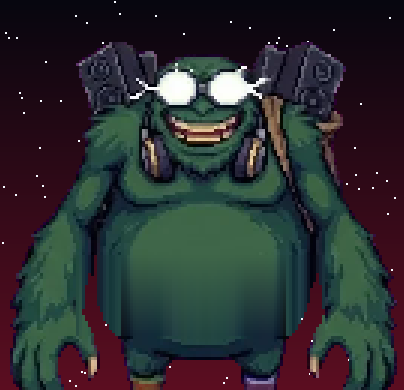
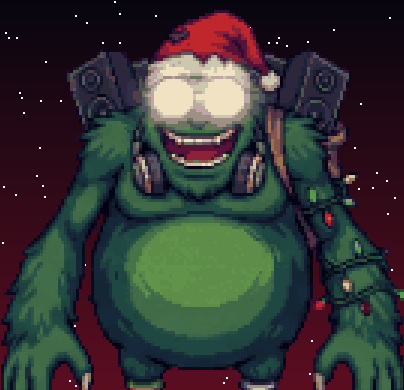
Don Gruñón con gorro navideño y sin cinturón, dibujado así desde Gemini
- La hoja de cuadros se volvió a generar en Gemini a partir del diseño:
  ahora tiene el gorro de Papá Noel en todas las poses (en la de vencido,
  tirado al lado) y la panza sin cinturón. Ya no hay ningún retoque por
  código sobre el dibujo (el relleno anterior dejaba la panza borrosa).
- tools/jefe.py, mucho más simple: saca el fondo magenta, separa los 7
  cuadros, espeja las 2 poses que miraban a la derecha y reduce con
  promedio + paleta fija sacada del original (pixel art nítido).
- Anteojos medidos a mano en cada pose (el gorro rojo y blanco confundía
  la detección automática): los láseres y el brillo salen de los ojos.
- Se sacan los arcos eléctricos sobre la cabeza (eran del jefe anterior).
- Originales en arte-fuente/jefe/ (diseño, referencia y hoja nueva).

diff --git a/salva-la-navidance/js/data/art-data.js b/salva-la-navidance/js/data/art-data.js
@@ -1,2 +1,2 @@
 // Metadatos del arte 8-bit (generado por tools/arte.py y tools/jefe.py)
-window.ART_DATA={"sprites": {"coin": {"w": 14, "h": 14, "n": 6}, "mega": {"w": 26, "h": 26, "n": 4}, "shield": {"w": 20, "h": 20, "n": 2}, "heart": {"w": 12, "h": 11, "n": 2}, "beacon": {"w": 18, "h": 38, "n": 2}, "shot": {"w": 14, "h": 8, "n": 2}, "elaser": {"w": 12, "h": 4, "n": 1}, "ornament": {"w": 10, "h": 11, "n": 4}, "wave": {"w": 20, "h": 16, "n": 2}, "boom": {"w": 34, "h": 34, "n": 6}, "movinghead": {"w": 20, "h": 20, "n": 1, "lens": [10, 15]}, "patovica": {"w": 30, "h": 34, "n": 2}, "regalo": {"w": 30, "h": 44, "n": 4}, "esfera": {"w": 30, "h": 28, "n": 3}, "duende": {"w": 24, "h": 30, "n": 3}, "grunon": {"w": 170, "h": 140, "n": 7, "lensL": [75, 32], "lensR": [91, 32], "lenses": [[75, 32, 91, 32], [75, 34, 91, 34], [48, 42, 58, 45], [75, 28, 94, 28], [44, 35, 59, 33], [75, 32, 91, 32], [89, 46, 104, 47]], "core": [83, 101]}}, "deco": {"console": [32, 32], "speaker": [32, 64], "tree": [30, 46], "tree_bulbs": [[10, 14], [19, 18], [8, 24], [22, 26], [13, 30], [5, 35], [25, 36], [16, 37]], "snow": [32, 10], "truss": [32, 12], "lamp": [12, 52], "door": [40, 96]}, "lights": {"far_blink": [[161, 86], [270, 131], [379, 102], [597, 104], [710, 139], [985, 86], [1059, 128], [1180, 125]], "mid_bulbs": [[174, 191], [171, 197], [165, 200], [159, 197], [156, 191], [159, 185], [165, 182], [171, 185], [460, 105], [468, 105], [476, 105], [484, 105], [492, 105], [500, 105], [508, 105], [516, 105], [524, 105], [532, 105], [540, 105], [548, 105], [556, 105], [564, 105], [1208, 95], [1216, 95], [1224, 95], [1232, 95], [1240, 95], [1248, 95], [1256, 95], [1264, 95], [1272, 95], [1280, 95], [1288, 95], [1296, 95], [1304, 95], [1312, 95], [1474, 191], [1471, 197], [1465, 200], [1459, 197], [1456, 191], [1459, 185], [1465, 182], [1471, 185], [1240, 120], [1250, 121], [1260, 123], [1270, 124], [1280, 126], [1290, 128], [1300, 129], [1310, 130], [1320, 132], [1330, 133], [1340, 134], [1350, 136], [1360, 137], [1370, 138], [1380, 139], [1390, 139], [1400, 140], [1410, 141], [1420, 141], [1430, 141], [1440, 141], [1450, 142], [1460, 141], [1470, 141], [1480, 141], [1490, 141], [1500, 140], [1510, 139], [1520, 139], [1530, 138], [1540, 137], [1550, 136], [1560, 134], [1570, 133], [1580, 132], [1590, 130], [1600, 129], [1610, 128], [1620, 126], [1630, 124], [1640, 123], [1650, 121], [390, 226], [405, 287], [396, 283], [436, 302], [428, 255], [389, 224], [444, 298], [419, 284], [396, 195], [357, 282], [389, 226], [371, 302], [396, 201], [409, 300], [426, 294], [447, 293], [368, 266], [407, 201], [431, 255], [435, 264], [419, 238], [438, 293], [388, 240], [413, 273], [408, 223], [432, 295], [400, 210], [408, 274], [388, 218], [429, 263], [404, 199], [396, 223], [425, 303], [397, 204], [408, 242], [424, 277], [407, 228], [391, 255], [401, 245], [434, 292], [1605, 269], [1583, 303], [1595, 236], [1587, 309], [1581, 237], [1598, 278], [1606, 260], [1578, 282], [1551, 279], [1572, 276], [1585, 291], [1585, 212], [1584, 248], [1563, 269], [1560, 297], [1596, 229], [1600, 278], [1572, 246], [1596, 232], [1581, 215], [1569, 250], [1581, 210], [1595, 228], [1619, 299], [1590, 244], [1562, 291], [1578, 241], [1577, 226], [1593, 238], [1580, 211], [1595, 275], [1617, 285], [1584, 235], [1573, 279], [1597, 235], [1591, 228], [1581, 212], [1572, 268], [1552, 285], [1590, 213], [23, 179], [30, 179], [37, 179], [44, 172], [51, 179], [58, 179], [65, 179], [72, 287], [79, 288], [86, 288], [93, 288], [100, 288], [107, 287], [121, 261], [128, 257], [135, 253], [142, 249], [149, 245], [156, 144], [163, 113], [170, 126], [177, 242], [184, 247], [191, 251], [198, 254], [205, 258], [219, 298], [226, 294], [233, 294], [240, 298], [254, 208], [261, 209], [268, 209], [275, 201], [282, 209], [289, 208], [296, 209], [317, 314], [324, 286], [331, 286], [338, 314], [345, 314], [352, 286], [359, 286], [366, 283], [373, 260], [380, 236], [387, 210], [394, 178], [401, 174], [408, 179], [415, 215], [422, 239], [429, 262], [436, 284], [443, 307], [450, 306], [457, 306], [464, 110], [471, 109], [478, 110], [485, 110], [492, 110], [499, 110], [506, 109], [513, 110], [520, 110], [527, 110], [534, 110], [541, 109], [548, 110], [555, 110], [562, 110], [569, 110], [576, 292], [611, 268], [618, 268], [625, 268], [632, 267], [639, 268], [646, 268], [653, 268], [660, 220], [667, 205], [674, 196], [681, 196], [688, 213], [695, 268], [702, 267], [709, 268], [716, 268], [723, 268], [730, 268], [737, 267], [744, 303], [751, 293], [758, 290], [765, 291], [772, 295], [793, 189], [800, 189], [807, 189], [814, 188], [821, 182], [828, 189], [835, 189], [842, 189], [849, 188], [863, 284], [870, 284], [877, 284], [884, 283], [891, 284], [898, 284], [905, 284], [912, 229], [919, 228], [926, 222], [933, 222], [940, 229], [947, 229], [954, 305], [961, 299], [968, 298], [975, 303], [989, 168], [996, 169], [1003, 169], [1010, 169], [1017, 162], [1024, 168], [1031, 169], [1038, 169], [1052, 287], [1059, 288], [1066, 288], [1073, 288], [1080, 288], [1087, 287], [1094, 288], [1101, 288], [1108, 288], [1115, 288], [1122, 279], [1129, 271], [1150, 201], [1157, 201], [1164, 201], [1171, 194], [1178, 200], [1185, 201], [1192, 201], [1206, 99], [1213, 100], [1220, 100], [1227, 100], [1234, 100], [1241, 99], [1248, 100], [1255, 100], [1262, 100], [1269, 100], [1276, 99], [1283, 100], [1290, 100], [1297, 100], [1304, 100], [1311, 99], [1318, 294], [1325, 294], [1332, 299], [1339, 293], [1346, 292], [1353, 294], [1360, 304], [1374, 217], [1381, 217], [1388, 210], [1395, 210], [1402, 217], [1409, 217], [1423, 259], [1430, 256], [1437, 252], [1444, 248], [1451, 244], [1458, 135], [1472, 136], [1479, 243], [1486, 248], [1493, 252], [1500, 256], [1507, 259], [1521, 289], [1528, 290], [1535, 290], [1542, 290], [1549, 290], [1556, 282], [1563, 259], [1570, 179], [1577, 179], [1584, 178], [1591, 172], [1598, 179], [1605, 179], [1612, 179], [1619, 178], [1626, 326], [1633, 272], [1654, 233], [1661, 233], [1668, 225], [1675, 233], [1682, 232], [1689, 233], [1696, 299], [1703, 295], [1710, 296], [1717, 302], [1724, 157], [1731, 157], [1738, 157], [1745, 156], [1752, 150], [1759, 150], [1766, 157], [1773, 157], [1780, 156], [1794, 286], [1801, 286], [1808, 285], [1815, 286], [1822, 286], [1829, 286], [1836, 286], [1843, 285], [1850, 286], [1857, 286], [1864, 197], [1871, 197], [1878, 190], [1885, 190], [1892, 197], [1899, 197], [1906, 293], [1913, 290], [1920, 291], [1927, 295], [1941, 211], [1948, 210], [1955, 211], [1962, 211], [1969, 211], [1976, 204], [1983, 210], [1990, 211], [1997, 211], [2004, 211]], "mid_neon": [{"x": 316, "y": 280, "w": 188, "h": 32, "c": "W"}, {"x": 458, "y": 108, "w": 112, "h": 36, "c": "R"}, {"x": 1206, "y": 98, "w": 112, "h": 36, "c": "R"}], "near_consoles": [[258, 254, 40, 3], [638, 254, 40, 3]]}};
+window.ART_DATA={"sprites": {"coin": {"w": 14, "h": 14, "n": 6}, "mega": {"w": 26, "h": 26, "n": 4}, "shield": {"w": 20, "h": 20, "n": 2}, "heart": {"w": 12, "h": 11, "n": 2}, "beacon": {"w": 18, "h": 38, "n": 2}, "shot": {"w": 14, "h": 8, "n": 2}, "elaser": {"w": 12, "h": 4, "n": 1}, "ornament": {"w": 10, "h": 11, "n": 4}, "wave": {"w": 20, "h": 16, "n": 2}, "boom": {"w": 34, "h": 34, "n": 6}, "movinghead": {"w": 20, "h": 20, "n": 1, "lens": [10, 15]}, "patovica": {"w": 30, "h": 34, "n": 2}, "regalo": {"w": 30, "h": 44, "n": 4}, "esfera": {"w": 30, "h": 28, "n": 3}, "duende": {"w": 24, "h": 30, "n": 3}, "grunon": {"w": 176, "h": 150, "n": 7, "lensL": [79, 42], "lensR": [96, 42], "lenses": [[79, 42, 96, 42], [79, 42, 96, 42], [46, 48, 57, 48], [80, 42, 96, 42], [54, 53, 66, 53], [79, 42, 96, 42], [79, 57, 95, 57]], "core": [88, 94]}}, "deco": {"console": [32, 32], "speaker": [32, 64], "tree": [30, 46], "tree_bulbs": [[10, 14], [19, 18], [8, 24], [22, 26], [13, 30], [5, 35], [25, 36], [16, 37]], "snow": [32, 10], "truss": [32, 12], "lamp": [12, 52], "door": [40, 96]}, "lights": {"far_blink": [[161, 86], [270, 131], [379, 102], [597, 104], [710, 139], [985, 86], [1059, 128], [1180, 125]], "mid_bulbs": [[174, 191], [171, 197], [165, 200], [159, 197], [156, 191], [159, 185], [165, 182], [171, 185], [460, 105], [468, 105], [476, 105], [484, 105], [492, 105], [500, 105], [508, 105], [516, 105], [524, 105], [532, 105], [540, 105], [548, 105], [556, 105], [564, 105], [1208, 95], [1216, 95], [1224, 95], [1232, 95], [1240, 95], [1248, 95], [1256, 95], [1264, 95], [1272, 95], [1280, 95], [1288, 95], [1296, 95], [1304, 95], [1312, 95], [1474, 191], [1471, 197], [1465, 200], [1459, 197], [1456, 191], [1459, 185], [1465, 182], [1471, 185], [1240, 120], [1250, 121], [1260, 123], [1270, 124], [1280, 126], [1290, 128], [1300, 129], [1310, 130], [1320, 132], [1330, 133], [1340, 134], [1350, 136], [1360, 137], [1370, 138], [1380, 139], [1390, 139], [1400, 140], [1410, 141], [1420, 141], [1430, 141], [1440, 141], [1450, 142], [1460, 141], [1470, 141], [1480, 141], [1490, 141], [1500, 140], [1510, 139], [1520, 139], [1530, 138], [1540, 137], [1550, 136], [1560, 134], [1570, 133], [1580, 132], [1590, 130], [1600, 129], [1610, 128], [1620, 126], [1630, 124], [1640, 123], [1650, 121], [390, 226], [405, 287], [396, 283], [436, 302], [428, 255], [389, 224], [444, 298], [419, 284], [396, 195], [357, 282], [389, 226], [371, 302], [396, 201], [409, 300], [426, 294], [447, 293], [368, 266], [407, 201], [431, 255], [435, 264], [419, 238], [438, 293], [388, 240], [413, 273], [408, 223], [432, 295], [400, 210], [408, 274], [388, 218], [429, 263], [404, 199], [396, 223], [425, 303], [397, 204], [408, 242], [424, 277], [407, 228], [391, 255], [401, 245], [434, 292], [1605, 269], [1583, 303], [1595, 236], [1587, 309], [1581, 237], [1598, 278], [1606, 260], [1578, 282], [1551, 279], [1572, 276], [1585, 291], [1585, 212], [1584, 248], [1563, 269], [1560, 297], [1596, 229], [1600, 278], [1572, 246], [1596, 232], [1581, 215], [1569, 250], [1581, 210], [1595, 228], [1619, 299], [1590, 244], [1562, 291], [1578, 241], [1577, 226], [1593, 238], [1580, 211], [1595, 275], [1617, 285], [1584, 235], [1573, 279], [1597, 235], [1591, 228], [1581, 212], [1572, 268], [1552, 285], [1590, 213], [23, 179], [30, 179], [37, 179], [44, 172], [51, 179], [58, 179], [65, 179], [72, 287], [79, 288], [86, 288], [93, 288], [100, 288], [107, 287], [121, 261], [128, 257], [135, 253], [142, 249], [149, 245], [156, 144], [163, 113], [170, 126], [177, 242], [184, 247], [191, 251], [198, 254], [205, 258], [219, 298], [226, 294], [233, 294], [240, 298], [254, 208], [261, 209], [268, 209], [275, 201], [282, 209], [289, 208], [296, 209], [317, 314], [324, 286], [331, 286], [338, 314], [345, 314], [352, 286], [359, 286], [366, 283], [373, 260], [380, 236], [387, 210], [394, 178], [401, 174], [408, 179], [415, 215], [422, 239], [429, 262], [436, 284], [443, 307], [450, 306], [457, 306], [464, 110], [471, 109], [478, 110], [485, 110], [492, 110], [499, 110], [506, 109], [513, 110], [520, 110], [527, 110], [534, 110], [541, 109], [548, 110], [555, 110], [562, 110], [569, 110], [576, 292], [611, 268], [618, 268], [625, 268], [632, 267], [639, 268], [646, 268], [653, 268], [660, 220], [667, 205], [674, 196], [681, 196], [688, 213], [695, 268], [702, 267], [709, 268], [716, 268], [723, 268], [730, 268], [737, 267], [744, 303], [751, 293], [758, 290], [765, 291], [772, 295], [793, 189], [800, 189], [807, 189], [814, 188], [821, 182], [828, 189], [835, 189], [842, 189], [849, 188], [863, 284], [870, 284], [877, 284], [884, 283], [891, 284], [898, 284], [905, 284], [912, 229], [919, 228], [926, 222], [933, 222], [940, 229], [947, 229], [954, 305], [961, 299], [968, 298], [975, 303], [989, 168], [996, 169], [1003, 169], [1010, 169], [1017, 162], [1024, 168], [1031, 169], [1038, 169], [1052, 287], [1059, 288], [1066, 288], [1073, 288], [1080, 288], [1087, 287], [1094, 288], [1101, 288], [1108, 288], [1115, 288], [1122, 279], [1129, 271], [1150, 201], [1157, 201], [1164, 201], [1171, 194], [1178, 200], [1185, 201], [1192, 201], [1206, 99], [1213, 100], [1220, 100], [1227, 100], [1234, 100], [1241, 99], [1248, 100], [1255, 100], [1262, 100], [1269, 100], [1276, 99], [1283, 100], [1290, 100], [1297, 100], [1304, 100], [1311, 99], [1318, 294], [1325, 294], [1332, 299], [1339, 293], [1346, 292], [1353, 294], [1360, 304], [1374, 217], [1381, 217], [1388, 210], [1395, 210], [1402, 217], [1409, 217], [1423, 259], [1430, 256], [1437, 252], [1444, 248], [1451, 244], [1458, 135], [1472, 136], [1479, 243], [1486, 248], [1493, 252], [1500, 256], [1507, 259], [1521, 289], [1528, 290], [1535, 290], [1542, 290], [1549, 290], [1556, 282], [1563, 259], [1570, 179], [1577, 179], [1584, 178], [1591, 172], [1598, 179], [1605, 179], [1612, 179], [1619, 178], [1626, 326], [1633, 272], [1654, 233], [1661, 233], [1668, 225], [1675, 233], [1682, 232], [1689, 233], [1696, 299], [1703, 295], [1710, 296], [1717, 302], [1724, 157], [1731, 157], [1738, 157], [1745, 156], [1752, 150], [1759, 150], [1766, 157], [1773, 157], [1780, 156], [1794, 286], [1801, 286], [1808, 285], [1815, 286], [1822, 286], [1829, 286], [1836, 286], [1843, 285], [1850, 286], [1857, 286], [1864, 197], [1871, 197], [1878, 190], [1885, 190], [1892, 197], [1899, 197], [1906, 293], [1913, 290], [1920, 291], [1927, 295], [1941, 211], [1948, 210], [1955, 211], [1962, 211], [1969, 211], [1976, 204], [1983, 210], [1990, 211], [1997, 211], [2004, 211]], "mid_neon": [{"x": 316, "y": 280, "w": 188, "h": 32, "c": "W"}, {"x": 458, "y": 108, "w": 112, "h": 36, "c": "R"}, {"x": 1206, "y": 98, "w": 112, "h": 36, "c": "R"}], "near_consoles": [[258, 254, 40, 3], [638, 254, 40, 3]]}};

diff --git a/salva-la-navidance/js/enemies.js b/salva-la-navidance/js/enemies.js
@@ -280,7 +280,7 @@
     X.spr('grunon', b.frame, b.cx - cx, b.by - cy, { flash: b.flash > 0 || (b.dead && (G.frame >> 1) % 2 && b.deathT < 110) });
     if (glow) { const m = GM(); ctx.save(); ctx.fillStyle = '#9dffbf'; ctx.globalAlpha = 0.5 + 0.5 * Math.sin(G.frame * 0.4); NV.Input.circ(ctx, b.cx - m.w / 2 + m.core[0] - cx, b.by - m.h + m.core[1] - cy, 7); ctx.restore(); }
     if (b.dead) return;
-    // brillo de los ojos y arcos eléctricos entre los aisladores (más intensos en el apagón total)
+    // brillo de los anteojos (más intenso al apuntar y en la segunda fase)
     const m = GM(), ox = b.cx - m.w / 2 - cx, oy = b.by - m.h - cy;
     ctx.save(); ctx.globalCompositeOperation = 'lighter';
     eyes(m, b.frame).forEach((l, i) => {
@@ -289,12 +289,6 @@
       g.addColorStop(0, i ? 'rgba(51,224,122,.55)' : 'rgba(255,46,74,.55)'); g.addColorStop(1, 'rgba(0,0,0,0)');
       ctx.fillStyle = g; ctx.fillRect(ox + l[0] - r, oy + l[1] - r, r * 2, r * 2);
     });
-    if (G.frame % (b.phase === 2 ? 3 : 7) < 2) {
-      ctx.strokeStyle = '#bff6ff'; ctx.lineWidth = 1; ctx.beginPath();
-      let x = ox + 48, y = oy + 2; ctx.moveTo(x, y);
-      for (let k = 0; k < 6; k++) { x += 8; y = oy + 2 + U.rand(-6, 4); ctx.lineTo(Math.round(x), Math.round(y)); }
-      ctx.stroke();
-    }
     ctx.restore();
   };
   // SE CORTÓ LA NAVIDAD (fase 2): se apagan las luces; queda un círculo de luz alrededor del DJ

diff --git a/salva-la-navidance/js/core.js b/salva-la-navidance/js/core.js
@@ -3,7 +3,7 @@
 //  Todos los números del juego están acá para ajustarlos sin tocar la lógica.
 // =====================================================================
 window.NV = window.NV || {};
-NV.VERSION = 'grunon-2'; // cambiarlo en cada actualización del arte o la música (rompe la caché del navegador)
+NV.VERSION = 'grunon-gorro-1'; // cambiarlo en cada actualización del arte o la música (rompe la caché del navegador)
 
 NV.CFG = {
   // ---------- Pantalla ----------

diff --git a/salva-la-navidance/tools/jefe.py b/salva-la-navidance/tools/jefe.py
@@ -1,17 +1,18 @@
 # =====================================================================
 #  JEFE FINAL: DON GRUÑÓN
-#  Convierte la hoja de cuadros (arte-fuente/jefe/don_grunon_cuadros.webp,
-#  fondo magenta) al sprite del juego:
-#   - saca el fondo, separa los cuadros y BORRA EL CINTURÓN (inpainting)
-#   - escala todo igual, alinea los pies y arma la hoja assets/sprites/grunon.png
-#   - ubica los anteojos (de donde salen los láseres) y la panza (punto débil)
-#   - arma la carta de la presentación VS (assets/img/grunon_card.png)
-#   - escribe los metadatos en js/data/art-data.js
+#  Convierte la hoja de cuadros hecha con Gemini (arte-fuente/jefe/
+#  don_grunon_cuadros_gorro.jpg: 7 poses sobre fondo magenta, con gorro
+#  navideño y sin cinturón) al sprite del juego:
+#   - saca el fondo magenta y separa los cuadros
+#   - espeja las poses que miran a la derecha (el jefe mira a la izquierda)
+#   - reduce con promedio + paleta fija sacada del original (pixel art nítido)
+#   - alinea los pies y ubica los anteojos de cada pose y la panza
+#   - arma la carta de la presentación VS y escribe los metadatos
 #
-#     python tools/jefe.py      (necesita numpy, scipy, opencv-python, pillow)
+#     python tools/jefe.py      (necesita numpy, scipy y pillow)
 #
-#  Orden de cuadros en el juego:
-#   0 quieto · 1 quieto (rebote) · 2 apunta · 3 dispara · 4 golpe/bolsa · 5 vencido · 6 enojado (2ª fase)
+#  Cuadros en el juego:
+#   0 quieto · 1 quieto (rebote) · 2 apunta · 3 dispara · 4 golpe con la bolsa · 5 vencido · 6 enojado
 # =====================================================================
 import json, os, re
 import numpy as np
@@ -19,27 +20,28 @@ from PIL import Image
 from scipy import ndimage
 
 ROOT = os.path.dirname(os.path.dirname(os.path.abspath(__file__)))
-SRC = os.path.join(os.path.dirname(ROOT), 'arte-fuente', 'jefe', 'don_grunon_cuadros.webp')
-CW, CH = 170, 140        # tamaño de cada cuadro en el juego
-TARGET_H = 126           # alto del personaje parado
+SRC = os.path.join(os.path.dirname(ROOT), 'arte-fuente', 'jefe', 'don_grunon_cuadros_gorro.jpg')
+CW, CH = 176, 150        # tamaño de cada cuadro en el juego
+TARGET_H = 138           # alto del cuadro quieto (con gorro)
+# orden de la hoja: arriba quieto, rebote, apunta, dispara · abajo golpe, enojado, vencido
+SHEET_TO_GAME = [0, 1, 2, 3, 4, 6, 5]
+FLIP = {2, 4}            # en la hoja miran a la derecha
 
 def load():
     rgb = np.array(Image.open(SRC).convert('RGB')).astype(np.int32)
     r, g, b = rgb[..., 0], rgb[..., 1], rgb[..., 2]
-    # fondo magenta (con tolerancia por la compresión)
-    bg = ((r - 255) ** 2 + g ** 2 + (b - 255) ** 2) < 130 ** 2
-    bg |= (r > 140) & (b > 140) & (g < 0.45 * np.minimum(r, b))  # borde rosado mezclado
-    bg |= (r - g > 45) & (b - g > 45)                             # magenta oscuro mezclado con el contorno
-    return rgb.astype(np.uint8), ~bg
+    bg = ((r - 255) ** 2 + g ** 2 + (b - 255) ** 2) < 140 ** 2        # magenta (con margen por el JPG)
+    bg |= (r - g > 70) & (b - g > 70)                                 # halo rosado/violeta del borde
+    fg = ndimage.binary_opening(~bg, iterations=2)
+    return rgb.astype(np.uint8), fg
 
 def frames(rgb, fg):
-    fg = ndimage.binary_opening(fg, iterations=1)
-    lab, n = ndimage.label(ndimage.binary_dilation(fg, iterations=4))
+    H = fg.shape[0]
+    lab, n = ndimage.label(ndimage.binary_dilation(fg, iterations=6))
     sizes = ndimage.sum(fg, lab, range(1, n + 1))
-    big = [i + 1 for i, s in enumerate(sizes) if s > 8000]
-    # piezas sueltas (humo, garras) se suman al cuadro más cercano
+    big = [i + 1 for i, s in enumerate(sizes) if s > 30000]
     cen = {i: ndimage.center_of_mass(lab == i) for i in range(1, n + 1)}
-    for i in range(1, n + 1):
+    for i in range(1, n + 1):  # humo, vapor, garras sueltas: al cuadro más cercano
         if i in big: continue
         j = min(big, key=lambda k: (cen[k][0] - cen[i][0]) ** 2 + (cen[k][1] - cen[i][1]) ** 2)
         lab[lab == i] = j
@@ -47,181 +49,83 @@ def frames(rgb, fg):
     for i in big:
         ys, xs = np.where((lab == i) & fg)
         boxes.append((ys.min(), ys.max(), xs.min(), xs.max(), i))
-    # filas (arriba / abajo) y de izquierda a derecha
-    boxes.sort(key=lambda t: (0 if (t[0] + t[1]) / 2 < 512 else 1, t[2]))
+    boxes.sort(key=lambda t: (0 if (t[0] + t[1]) / 2 < H / 2 else 1, t[2]))
     out = []
     for y0, y1, x0, x1, i in boxes:
         m = (lab[y0:y1 + 1, x0:x1 + 1] == i) & fg[y0:y1 + 1, x0:x1 + 1]
-        out.append((rgb[y0:y1 + 1, x0:x1 + 1].copy(), m, (y0, x0)))
+        a = (m * 255).astype(np.uint8)
+        out.append(Image.fromarray(np.dstack([rgb[y0:y1 + 1, x0:x1 + 1], a]), 'RGBA'))
     return out
-
-# Zona del cinturón y de la hebilla en cada cuadro de la hoja (coordenadas de la imagen original 1024x1024).
-# Si se regenera la hoja con Gemini, revisar estas zonas.
-BELTS = [
-    {'band': [(105, 376), (355, 376), (355, 430), (105, 430)], 'coin': (198, 384, 265, 455)},   # quieto
-    {'band': [(455, 403), (700, 403), (700, 450), (455, 450)], 'coin': (575, 400, 640, 463)},   # enojado
-    {'band': [(780, 400), (945, 405), (945, 455), (780, 450)], 'coin': (785, 400, 840, 460), 'perfil': True},   # apunta
-    {'band': [(110, 790), (360, 790), (360, 845), (110, 845)], 'coin': (205, 797, 275, 870)},   # dispara
-    {'band': [(475, 825), (715, 785), (715, 825), (475, 872)], 'coin': (478, 812, 525, 882), 'perfil': True},   # bolsa arriba
-    None,                                                                                          # vencido
-]
-BELLY = (231, 420)  # centro de la panza en el cuadro quieto (punto débil)
-
-def sin_cinturon(img, m, org, spec):
-    """borra el cinturón y la hebilla: cada columna se rellena con un degradé entre la panza de arriba y la de abajo"""
-    if not spec: return img, m
-    from PIL import ImageDraw
-    h, w = m.shape; oy, ox = org
-    def poly_mask(draw_fn):
-        z = Image.new('L', (w, h), 0); draw_fn(ImageDraw.Draw(z)); return (np.array(z) > 0) & m
-    x0, y0, x1, y1 = [v - o for v, o in zip(spec['coin'], (ox, oy, ox, oy))]
-    coin = poly_mask(lambda d: d.rectangle([x0, y0, x1, y1], fill=255))
-    band = poly_mask(lambda d: d.polygon([(x - ox, y - oy) for x, y in spec['band']], fill=255)) & ~coin
-    img = img.copy(); m2 = m.copy()
-    # referencia válida: cuerpo verdoso (incluye la sombra oscura de abajo de la panza; no el marrón del cinturón)
-    ok = lambda yy, xx, src: 0 <= yy < h and 0 <= xx < w and m2[yy, xx] and not src[yy, xx] and int(img[yy, xx, 1]) >= int(img[yy, xx, 0]) - 2
-    def fill(mask, vertical):
-        idx = range(w) if vertical else range(h)
-        for i in idx:
-            line = np.where(mask[:, i] if vertical else mask[i, :])[0]
-            if not len(line): continue
-            for run in np.split(line, np.where(np.diff(line) > 1)[0] + 1):
-                a, b = run[0], run[-1]
-                pa = (a - 3, i) if vertical else (i, a - 3); pb = (b + 3, i) if vertical else (i, b + 3)
-                va, vb = ok(*pa, mask), ok(*pb, mask)
-                if not va and not vb: (m2.__setitem__((run, i) if vertical else (i, run), False)); continue
-                def avg(pt, sgn):
-                    # promedio de una zona chica (5x5) del lado de afuera: evita rayas por la textura del pelo
-                    yy0, xx0 = pt; acc = []
-                    for dd in range(0, 5):
-                        for ee in range(-2, 3):
-                            yy, xx = (yy0 + sgn * dd, xx0 + ee) if vertical else (yy0 + ee, xx0 + sgn * dd)
-                            if ok(yy, xx, mask): acc.append(img[yy, xx].astype(float))
-                    return np.mean(acc, 0) if acc else img[pt].astype(float)
-                ca = avg(pa, -1) if va else avg(pb, 1)
-                cb = avg(pb, 1) if vb else ca
-                if not vertical and va != vb:
-                    # la hebilla sobresalía del cuerpo (vista de perfil): se reconstruye el borde de la panza
-                    # interpolando dónde estaba el contorno arriba y abajo de la hebilla
-                    rows = np.where(mask.any(1))[0]; ya, yb = max(0, rows.min() - 2), min(h - 1, rows.max() + 2)
-                    edge_at = (lambda yy: np.where(m2[yy])[0].min()) if vb else (lambda yy: np.where(m2[yy])[0].max())
-                    try: ea, eb = edge_at(ya), edge_at(yb)
-                    except ValueError: ea = eb = (a if vb else b)
-                    tt = (i - ya) / max(1, yb - ya); xe = int(round(ea + (eb - ea) * tt))
-                    col = cb if vb else ca
-                    for k in run:
-                        inside = k >= xe if vb else k <= xe
-                        if inside: img[i, k] = col.astype(np.uint8); m2[i, k] = True
-                        else: m2[i, k] = False
-                    if a <= xe <= b: img[i, xe] = (14, 24, 30)
-                    continue
-                for k in run:
-                    t = (k - a + 1) / (b - a + 2); c = (ca * (1 - t) + cb * t).astype(np.uint8)
-                    if vertical: img[k, i] = c; m2[k, i] = True
-                    else: img[i, k] = c; m2[i, k] = True
-    if spec.get('perfil'):
-        fill(band, True)    # cinturón: degradé panza de arriba -> panza de abajo
-        fill(coin, False)   # hebilla (sobresale del cuerpo): se rehace el borde de la panza
-    else:
-        # de frente: una sola franja pareja desde el borde de arriba del cinturón hasta el de abajo de la hebilla
-        bx_ = [x - ox for x, y in spec['band']]; by_ = [y - oy for x, y in spec['band']]
-        zone = poly_mask(lambda d: d.rectangle([min(bx_), min(by_), max(bx_), max(max(by_), y1)], fill=255))
-        fill(zone, True)
-    return img, m2
-
-def to_rgba(img, m):
-    a = (m * 255).astype(np.uint8)
-    return Image.fromarray(np.dstack([img, a]), 'RGBA')
 
 def main():
     rgb, fg = load()
     fr = frames(rgb, fg)
-    assert len(fr) == 6, 'esperaba 6 cuadros, encontré %d' % len(fr)
-    # 0 quieto, 1 enojado, 2 apunta, 3 dispara, 4 bolsa arriba, 5 vencido (orden de la hoja)
-    cleaned = []
-    for i, (img, m, org) in enumerate(fr):
-        cleaned.append(sin_cinturon(img, m, org, BELTS[i]))
-    belly = (BELLY[0] - fr[0][2][1], BELLY[1] - fr[0][2][0])
-    s = TARGET_H / cleaned[0][1].shape[0]
-    def scaled(i):
-        img, m = cleaned[i]
-        h, w = m.shape; nw, nh = max(1, round(w * s)), max(1, round(h * s))
-        im = to_rgba(img, m)
-        small = im.resize((nw, nh), Image.NEAREST)  # el original ya es pixel art: muestrear sin mezclar colores
-        return small
-    sm = [scaled(i) for i in range(6)]
-    def cell(im, dy=0):
+    assert len(fr) == 7, 'esperaba 7 cuadros, encontré %d' % len(fr)
+    fr = [f.transpose(Image.FLIP_LEFT_RIGHT) if i in FLIP else f for i, f in enumerate(fr)]
+    s = TARGET_H / fr[0].height
+    # paleta fija sacada del original a tamaño completo (colores vivos, sin mezcla sucia)
+    allpx = Image.new('RGB', (sum(f.width for f in fr), max(f.height for f in fr)))
+    xx = 0
+    for f in fr:
+        bgfill = Image.new('RGB', f.size, (40, 60, 50)); bgfill.paste(f.convert('RGB'), mask=f.getchannel('A'))
+        allpx.paste(bgfill, (xx, 0)); xx += f.width
+    pal = allpx.quantize(72, method=Image.Quantize.MEDIANCUT)
+    def shrink(f):
+        nw, nh = max(1, round(f.width * s)), max(1, round(f.height * s))
+        small = f.convert('RGBa').resize((nw, nh), Image.BOX).convert('RGBA')   # promedio con alfa premultiplicado
+        a = np.array(small.getchannel('A')); alpha = Image.fromarray(np.where(a > 120, 255, 0).astype(np.uint8))
+        q = small.convert('RGB').quantize(palette=pal, dither=Image.Dither.NONE).convert('RGBA'); q.putalpha(alpha)
+        return q
+    sm = [shrink(f) for f in fr]
+    def cell(im):
         c = Image.new('RGBA', (CW, CH), (0, 0, 0, 0))
         a = np.array(im)[..., 3] > 0
-        low = a[int(a.shape[0] * 0.75):]                          # alinear por los pies
-        cxs = np.where(low.any(0))[0]; cx = (cxs.min() + cxs.max()) / 2 if len(cxs) else im.width / 2
-        x = int(round(CW / 2 - cx)); y = CH - im.height + dy
-        c.alpha_composite(im, (max(-im.width, x), y)) if x >= 0 and y >= 0 else c.paste(im, (x, y), im)
+        low = a[int(a.shape[0] * 0.8):]                               # alinear por los pies
+        cols = np.where(low.any(0))[0]; cx = (cols.min() + cols.max()) / 2 if len(cols) else im.width / 2
+        x = int(round(CW / 2 - cx)); y = CH - im.height
+        c.paste(im, (x, y), im)
         return c, x, y
-    order = [(0, 0), (0, 2), (2, 0), (3, 0), (4, 0), (5, 0), (1, 0)]  # (cuadro de la hoja, desplazamiento vertical)
-    cells = []; idle_off = None
-    for k, (src, dy) in enumerate(order):
-        c, x, y = cell(sm[src], dy)
-        spec = BELTS[src]
-        if spec and spec.get('perfil'):  # retoque final de la hebilla de perfil: cada fila toma el color de la panza de al lado
-            org = fr[src][2]; x0, y0, x1, y1 = spec['coin']
-            bx0, by0 = int((x0 - org[1]) * s) + x - 1, int((y0 - org[0]) * s) + y - 1
-            bx1, by1 = int((x1 - org[1]) * s) + x + 2, int((y1 - org[0]) * s) + y + 2
-            a = np.array(c)
-            for yy in range(max(0, by0), min(CH, by1)):
-                ref = None
-                for xx in range(bx1, min(CW, bx1 + 6)):
-                    px = a[yy, xx]
-                    if px[3] and int(px[1]) > int(px[0]): ref = px.copy(); break
-                if ref is None and src not in (2, 4):  # de frente: probar del lado izquierdo
-                    for xx in range(bx0, max(-1, bx0 - 6), -1):
-                        px = a[yy, xx]
-                        if px[3] and int(px[1]) > int(px[0]): ref = px.copy(); break
-                if ref is None: continue
-                row = [xx for xx in range(max(0, bx0), min(CW, bx1)) if a[yy, xx, 3]]
-                for xx in row: a[yy, xx] = ref
-                if row and src in (2, 4): a[yy, row[0]] = (14, 24, 30, 255)  # de perfil, el borde lleva contorno
-            c = Image.fromarray(a, 'RGBA')
-        cells.append(c)
-        if k == 0: idle_off = (x, y)
-    sheet = Image.new('RGBA', (CW * len(cells), CH))
+    cells = [None] * 7
+    for i, im in enumerate(sm):
+        cells[SHEET_TO_GAME[i]] = cell(im)[0]
+    sheet = Image.new('RGBA', (CW * 7, CH))
     for i, c in enumerate(cells): sheet.alpha_composite(c, (i * CW, 0))
     sheet.save(os.path.join(ROOT, 'assets', 'sprites', 'grunon.png'))
-    # anteojos (rojo izquierdo, verde derecho) en el cuadro quieto, y la panza
-    def lenses(c):
-        a = np.array(c).astype(int); top = a[: int(CH * 0.6)]
-        on = top[..., 3] > 0
-        red = (top[..., 0] > 170) & (top[..., 1] < 90) & (top[..., 2] < 90)
-        grn = (top[..., 1] > 150) & (top[..., 0] < 150) & (top[..., 2] < 150)
-        wht = (top[..., 0] > 215) & (top[..., 1] > 215) & (top[..., 2] > 215)
-        lab, n = ndimage.label((red | grn | wht) & on)
-        if n < 2: return None
-        sizes = ndimage.sum(np.ones_like(lab), lab, range(1, n + 1)); best = np.argsort(sizes)[-2:] + 1
-        pts = sorted([tuple(int(v) for v in ndimage.center_of_mass(lab == i))[::-1] for i in best])
-        return [pts[0][0], pts[0][1], pts[1][0], pts[1][1]]
-    perFrame = [lenses(c) for c in cells]
-    lensL = perFrame[0][:2]; lensR = perFrame[0][2:]
-    perFrame = [f if f else perFrame[0] for f in perFrame]
-    core = [int(belly[0] * s + idle_off[0]), int(belly[1] * s + idle_off[1])] if belly else [CW // 2, CH - 50]
+
+    # anteojos de cada pose (medidos a mano sobre la hoja: el gorro también es rojo y blanco y confunde
+    # a cualquier detección automática). [x ojo izq, y, x ojo der, y] en coordenadas del cuadro.
+    # Si se cambia la hoja de Gemini, volver a medirlos.
+    per = [[79, 42, 96, 42],   # 0 quieto
+           [79, 42, 96, 42],   # 1 rebote
+           [46, 48, 57, 48],   # 2 apunta (de perfil)
+           [80, 42, 96, 42],   # 3 dispara
+           [54, 53, 66, 53],   # 4 golpe con la bolsa
+           [79, 42, 96, 42],   # 5 vencido (no dispara)
+           [79, 57, 95, 57]]   # 6 enojado
+    # panza (punto débil que brilla en el descanso): centro de la parte iluminada del cuadro quieto
+    a = np.array(cells[0]).astype(int)
+    lit = (a[..., 3] > 0) & (a[..., 1] > 120) & (a[..., 1] > a[..., 0] + 30)
+    lit[: int(CH * 0.45)] = False
+    ys, xs = np.where(lit); core = [int(xs.mean()), int(ys.mean())] if len(xs) else [CW // 2, CH - 50]
+
     # carta VS: el que se ríe, grande, sobre fondo rojo con nieve
     W, H = 404, 390
-    card = Image.new('RGBA', (W, H)); d = np.zeros((H, W, 4), np.uint8)
+    d = np.zeros((H, W, 4), np.uint8)
     for y in range(H):
         t = y / H; d[y, :, :3] = (int(7 + 85 * t), int(6 + 8 * t), int(15 + 18 * t)); d[y, :, 3] = 255
     rng = np.random.default_rng(2)
-    for _ in range(140): yy, xx2 = rng.integers(0, H - 2), rng.integers(0, W - 2); d[yy:yy + 2, xx2:xx2 + 2, :3] = (244, 248, 255)
+    for _ in range(140): yy, x2 = rng.integers(0, H - 2), rng.integers(0, W - 2); d[yy:yy + 2, x2:x2 + 2, :3] = (244, 248, 255)
     card = Image.fromarray(d, 'RGBA')
     big = cells[3].resize((CW * 3, CH * 3), Image.NEAREST)
-    card.alpha_composite(big, (W // 2 - big.width // 2, H - big.height + 30))
+    card.alpha_composite(big, (W // 2 - big.width // 2, H - big.height + 40))
     card.convert('RGB').save(os.path.join(ROOT, 'assets', 'img', 'grunon_card.png'))
-    # metadatos
+
     path = os.path.join(ROOT, 'js', 'data', 'art-data.js')
     src = open(path, encoding='utf-8').read()
     data = json.loads(re.search(r'window\.ART_DATA=(\{.*\});?\s*$', src, re.S).group(1))
-    data['sprites'].pop('noel', None)
-    data['sprites']['grunon'] = {'w': CW, 'h': CH, 'n': len(cells), 'lensL': lensL, 'lensR': lensR, 'lenses': perFrame, 'core': core}
+    data['sprites']['grunon'] = {'w': CW, 'h': CH, 'n': 7, 'lensL': per[0][:2], 'lensR': per[0][2:], 'lenses': per, 'core': core}
     open(path, 'w', encoding='utf-8').write('// Metadatos del arte 8-bit (generado por tools/arte.py y tools/jefe.py)\nwindow.ART_DATA=' + json.dumps(data, ensure_ascii=False) + ';\n')
-    print('Don Gruñón listo · escala %.3f · lentes %s %s · panza %s' % (s, lensL, lensR, core))
+    print('Don Gruñón listo · escala %.3f · anteojos %s · panza %s' % (s, per, core))
 
 if __name__ == '__main__':
     main()
